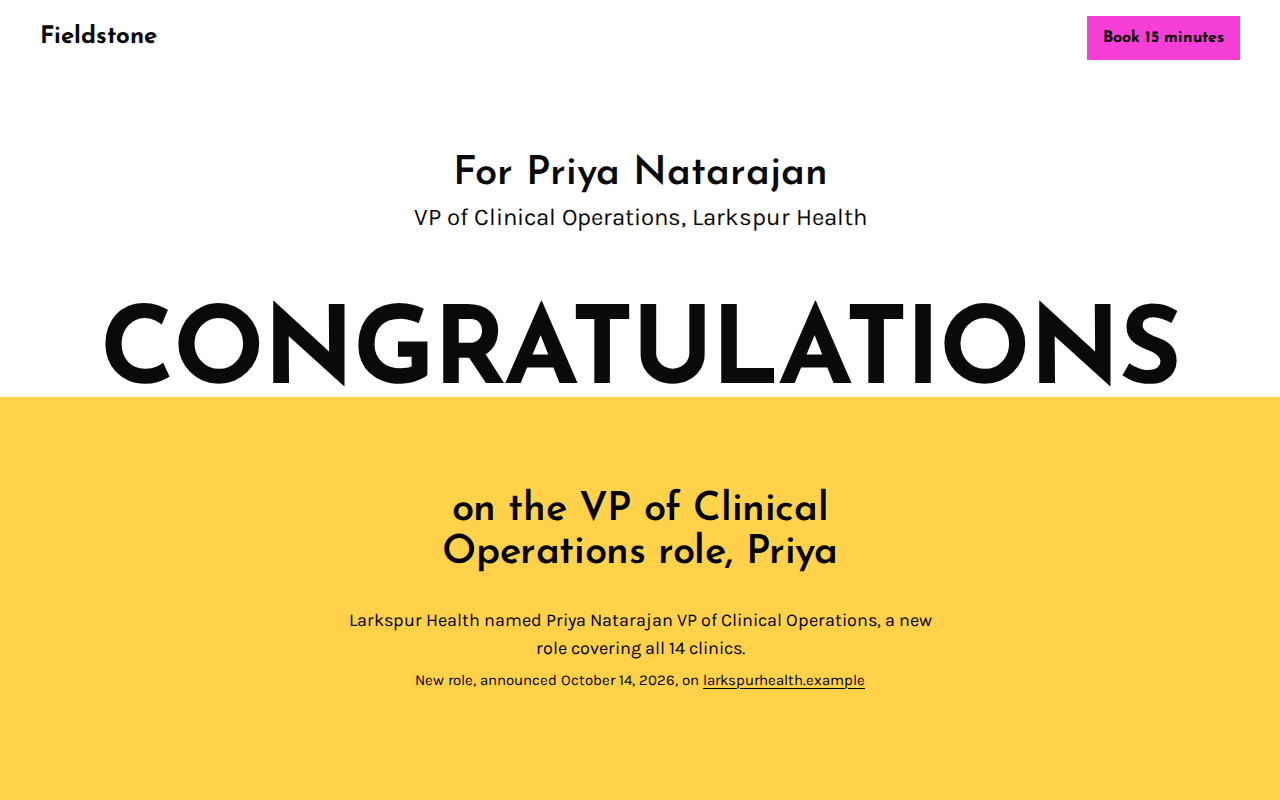
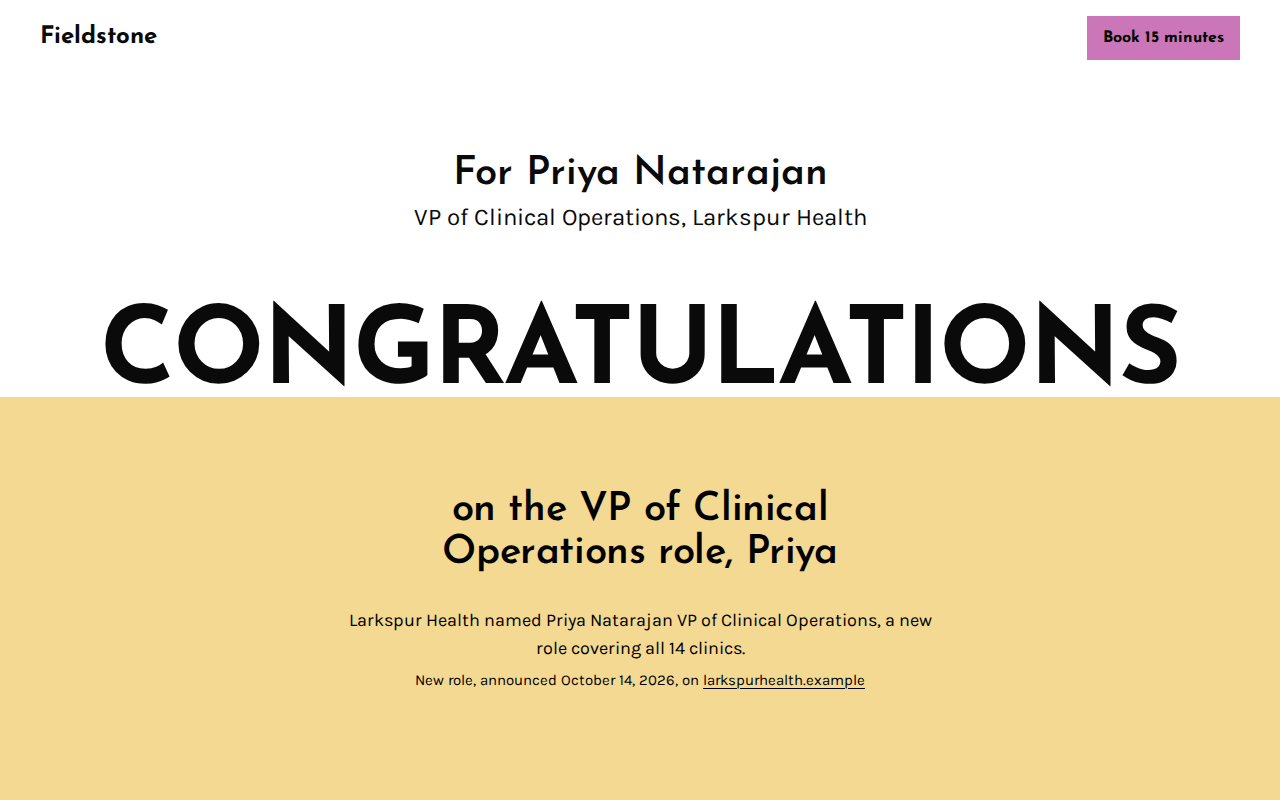
Library colour pass: congrats, softer yellow, magenta and candy pastels
#ffd249 to #f3d991 (front field), #f53fd6 to #cb76b8 (button), #ffc4ef to #f7cbeb (idea field),
#a4f6f8 to #b4f2f3 (back field). Hues kept.

diff --git a/starters/congrats/preview/larkspur.html b/starters/congrats/preview/larkspur.html
@@ -9,14 +9,14 @@
 <link rel="stylesheet" href="https://fonts.googleapis.com/css2?family=Karla:wght@400;500&display=swap">
 <style>
 :root{
-  --p:#f53fd6;
-  --s:#ffd249;
+  --p:#cb76b8;
+  --s:#f3d991;
   --ink:#0a0a0a;
   --paper:#ffffff;
   --on-p:#0a0a0a;
   --on-s:#0a0a0a;
-  --idea:#ffc4ef;
-  --back:#a4f6f8;
+  --idea:#f7cbeb;
+  --back:#b4f2f3;
   --fh:'Josefin Sans',ui-sans-serif,system-ui,sans-serif;
   --fb:'Karla',ui-sans-serif,system-ui,sans-serif;
   --m:clamp(1rem,3.2vw,2.5rem);
